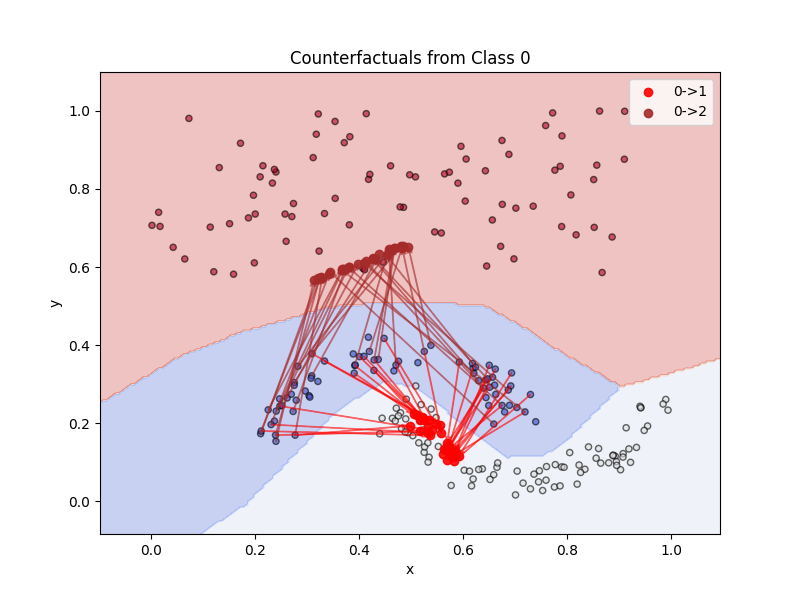
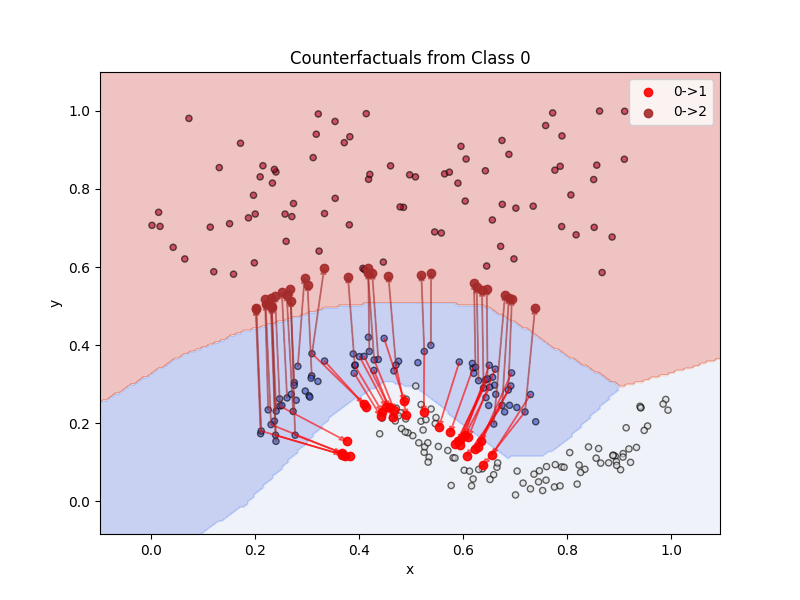
moons best masked

Changed region(s): [[0.3125, 0.39, 0.6875, 0.78]]

diff --git a/conditional_counteRGAN/moons/trainer.py b/conditional_counteRGAN/moons/trainer.py
@@ -55,7 +55,7 @@ def train_countergan(config, X_train, y_train, clf_model):
 
     for epoch in range(config['epochs']):
         epoch_d_losses, epoch_g_losses = [], []
-        for x_batch, y_batch in loader:
+        for batch_idx, (x_batch, y_batch) in enumerate(loader):
             x_batch, y_batch = x_batch.to(device), y_batch.to(device)
             bs = x_batch.size(0)
             num_features = x_batch.size(1)
@@ -66,36 +66,52 @@ def train_countergan(config, X_train, y_train, clf_model):
             target_onehot = F.one_hot(target_y, num_classes).float().to(device)
 
             # sample binary mask correctly: 0 or 1 per feature
-            # Use uniform p=0.5 or make configurable in config
             modifiable_features = torch.randint(0, 2, (bs, num_features), device=device).float()
 
-            residual = G(x_batch, target_onehot, mask=modifiable_features)
-            x_cf = x_batch + residual
+            raw_residual, masked_residual = G(x_batch, target_onehot, mask=modifiable_features)
+            mask_penalty_pre = torch.mean(torch.abs(raw_residual * (1.0 - modifiable_features)))
+
+            x_cf = x_batch + masked_residual
 
             # D update
-            D_real = D(x_batch)
-            D_fake = D(x_cf.detach())
+            D_real = D(x_batch, F.one_hot(y_batch, num_classes).float())
+            D_fake = D(x_cf.detach(), target_onehot)
+
             D_loss = -D_real.mean() + D_fake.mean()
             opt_D.zero_grad(); D_loss.backward(); opt_D.step()
 
             # G update
-            D_fake_forG = D(x_cf)
+            D_fake_forG = D(x_cf, target_onehot)
             G_adv_loss = -D_fake_forG.mean()
             clf_preds = clf_model(x_cf)
             G_cls_loss = F.cross_entropy(clf_preds, target_y)
 
-            # leak_penalty = torch.mean(torch.norm(raw_residual * (1-mask), p=1, dim=1)) # if want to penalize changes on unmodifiable features
-            G_reg_loss = torch.mean(torch.norm(residual, p=1, dim=1))
+            G_reg_loss_l1 = torch.mean(torch.norm(masked_residual, p=1, dim=1))
+            G_reg_loss_l2 = torch.mean(torch.norm(masked_residual, p=2, dim=1))
 
             G_loss = (
                 G_adv_loss +
                 config['lambda_cls'] * G_cls_loss + 
-                config['lambda_reg'] * G_reg_loss
+                config['lambda_reg_l1'] * G_reg_loss_l1 +
+                config['lambda_reg_l2'] * G_reg_loss_l2 +
+                config['lambda_mask'] * mask_penalty_pre
+
             )
             opt_G.zero_grad(); G_loss.backward(); opt_G.step()
 
             epoch_d_losses.append(D_loss.item())
             epoch_g_losses.append(G_loss.item())
+
+            # ---- Logging / diagnostics ----
+            with torch.no_grad():
+                d_real_p = torch.sigmoid(D_real).mean().item()
+                d_fake_p = torch.sigmoid(D_fake.detach()).mean().item()
+
+            if (epoch+1) % (config['epochs']*0.1) == 0 and batch_idx % 5 == 0:
+                print(f"[Epoch {epoch+1}/{config['epochs']}] batch {batch_idx} :: "
+                    f"D(real)={d_real_p:.3f}, D(fake)={d_fake_p:.3f}, "
+                    f"g_adv={G_adv_loss.item():.4f}, g_cls={G_cls_loss.item():.4f}, "
+                    f"reg_l1={G_reg_loss_l1.item():.5f}, reg_l2= {G_reg_loss_l2.item():.5f}, mask_pen={mask_penalty_pre.item():.5f}")
 
         d_losses.append(np.mean(epoch_d_losses))
         g_losses.append(np.mean(epoch_g_losses))

diff --git a/conditional_counteRGAN/moons/eval_utils.py b/conditional_counteRGAN/moons/eval_utils.py
@@ -25,7 +25,6 @@ def evaluate_classifier(clf, X_test, y_test, config):
     df.to_csv(save_path)
     print(f"Classifier accuracy: {acc:.4f}, confusion matrix saved to {save_path}")
 
-# eval_utils.py (modified parts)
 
 def compute_metrics_per_target(generator, classifier, X, y, config, mask=None):
     """
@@ -76,8 +75,8 @@ def compute_metrics_per_target(generator, classifier, X, y, config, mask=None):
                         mask_tensor = m.unsqueeze(0).expand(bs, -1)
                     else:
                         mask_tensor = m[:bs].float()  # if provided per-sample
-                residual = generator(x, target_onehot, mask=mask_tensor)
-                cf = x + residual
+                _, masked_residual = generator(x, target_onehot, mask=mask_tensor)
+                cf = x + masked_residual
 
                 cf_logits = classifier(cf)
                 cf_preds = cf_logits.argmax(dim=1)
@@ -89,11 +88,9 @@ def compute_metrics_per_target(generator, classifier, X, y, config, mask=None):
                 p_cf = probs_cf[torch.arange(bs), target_vec]
 
                 pred_gain = (p_cf - p_orig).mean().item()
-                # actionability measured only on masked residual (if mask available)
-                if mask_tensor is not None:
-                    actionability = torch.mean(torch.abs(residual * mask_tensor)).item()
-                else:
-                    actionability = torch.mean(torch.abs(residual)).item()
+
+                # actionability measured only on masked residual
+                actionability = torch.mean(torch.abs(masked_residual)).item()
 
                 flips_per_batch.append(flip_rate)
                 pred_gain_per_batch.append(pred_gain)
@@ -165,8 +162,8 @@ def plot_decision_boundaries_and_cfs(generator, classifier, X, y, config,
                 else:
                     mask_tensor = m[:x_src.size(0)]
             with torch.no_grad():
-                residual = generator(x_src, tgt_onehot, mask=mask_tensor)
-                x_cf = x_src + residual
+                _, masked_residual = generator(x_src, tgt_onehot, mask=mask_tensor)
+                x_cf = x_src + masked_residual
 
             x_src_np = x_src.cpu().numpy()
             x_cf_np = x_cf.cpu().numpy()

diff --git a/conditional_counteRGAN/moons/models/discriminator.py b/conditional_counteRGAN/moons/models/discriminator.py
@@ -1,20 +1,22 @@
 import torch.nn as nn
 import torch
+import torch.nn.utils.spectral_norm as spectral_norm
+
 
 class Discriminator(nn.Module):
     def __init__(self, input_dim, hidden_dim, num_classes):
         super().__init__()
         self.net = nn.Sequential(
-            nn.Linear(input_dim, hidden_dim),
-            nn.ReLU(),
-            nn.Linear(hidden_dim, hidden_dim),
-            nn.ReLU(),
-            nn.Linear(hidden_dim, hidden_dim//2),
-            nn.ReLU(),
-            nn.Linear(hidden_dim//2, hidden_dim//2),
-            nn.ReLU(),
-            nn.Linear(hidden_dim//2, 1)
+            spectral_norm(nn.Linear(input_dim + num_classes, hidden_dim)),
+            nn.LeakyReLU(0.2, inplace=True),
+            spectral_norm(nn.Linear(hidden_dim, hidden_dim//2)),
+            nn.LeakyReLU(0.2, inplace=True),
+            spectral_norm(nn.Linear(hidden_dim//2, hidden_dim//2)),
+            nn.LeakyReLU(0.2, inplace=True),
+            spectral_norm(nn.Linear(hidden_dim//2, 1))
+
         )
 
-    def forward(self, x):
-        return self.net(x)
+    def forward(self, x, target_onehot):
+        h = torch.cat([x, target_onehot], dim=1)
+        return self.net(h)

diff --git a/conditional_counteRGAN/moons/models/generator.py b/conditional_counteRGAN/moons/models/generator.py
@@ -5,18 +5,20 @@ class ResidualGenerator(nn.Module):
     def __init__(self, input_dim, hidden_dim, num_classes):
         super().__init__()
         self.net = nn.Sequential(
-            nn.Linear(input_dim + num_classes, hidden_dim),
+            nn.Linear(input_dim + num_classes + input_dim, hidden_dim),
+            nn.BatchNorm1d(hidden_dim),
             nn.ReLU(),
             nn.Linear(hidden_dim, hidden_dim),
+            nn.BatchNorm1d(hidden_dim),
             nn.ReLU(),
             nn.Linear(hidden_dim, hidden_dim//2),
+            nn.BatchNorm1d(hidden_dim//2),
             nn.ReLU(),
             nn.Linear(hidden_dim//2, input_dim)
         )
 
     def forward(self, x, target_onehot, mask=None):
-        h = torch.cat([x, target_onehot], dim=1)
+        h = torch.cat([x, target_onehot, mask], dim=1)
         raw_residual = self.net(h)
-        masked_residual = raw_residual if mask is None else raw_residual * mask
-        return masked_residual
-
+        masked_residual = raw_residual * mask
+        return raw_residual, masked_residual

diff --git a/conditional_counteRGAN/moons/config.py b/conditional_counteRGAN/moons/config.py
@@ -1,11 +1,13 @@
 config = {
     "seed": 42,
-    "epochs": 600,
-    "batch_size": 128,
-    "lr_G": 3e-4,
-    "lr_D": 1e-4,
+    "epochs": 500,
+    "batch_size": 64,
+    "lr_G": 1e-3,
+    "lr_D": 1e-3,
     "lambda_cls": 2.0,
-    "lambda_reg": 3.0,
+    "lambda_reg_l1": 5.0,
+    "lambda_reg_l2": 5.0,
+    "lambda_mask": 3.0,
     "input_dim": 2,
     "hidden_dim": 32,
     "out_dir": "results",
